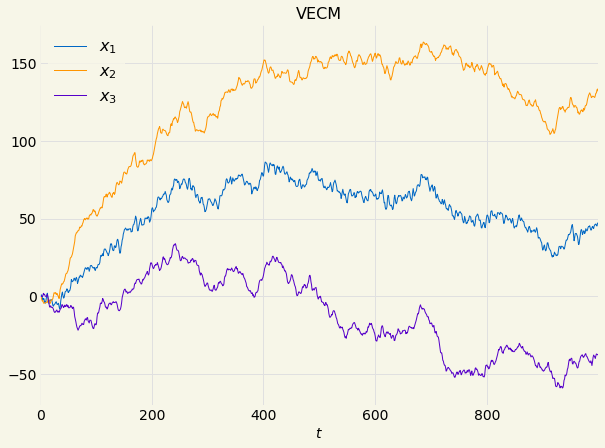
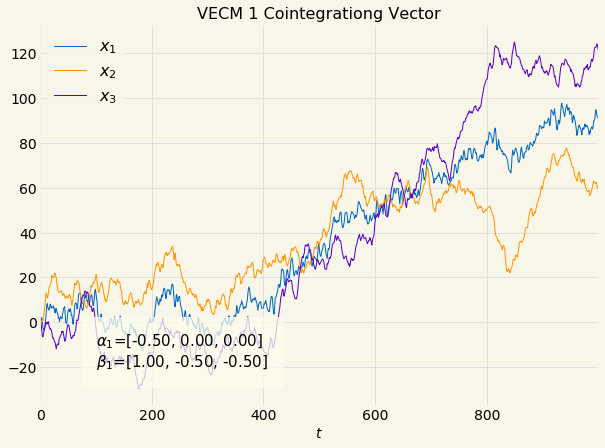
added more vecm simulation examples

diff --git a/hydrogen_notebooks/algorithmic_trading/mean_reversion/vecm_simulation.py b/hydrogen_notebooks/algorithmic_trading/mean_reversion/vecm_simulation.py
@@ -23,12 +23,25 @@ pyplot.style.use(config.glyfish_style)
 def multivariate_normal_sample(μ, Ω, n):
     return numpy.random.multivariate_normal(μ, Ω, n)
 
-def comparison_plot(title, samples, labels, plot):
+def comparison_plot(title, samples, α, β, labels, box_pos, plot):
     nplot, nsamples = samples.shape
     figure, axis = pyplot.subplots(figsize=(10, 7))
     axis.set_title(title)
     axis.set_xlabel(r"$t$")
     axis.set_xlim([0, nsamples-1])
+
+    params = []
+    d = ", "
+    nα, _ = α.shape
+    nβ, _ = β.shape
+    for i in range(nα):
+        params.append(f"$α_{{{i+1}}}$=[{d.join([format(elem, '2.2f') for elem in numpy.array(α[i]).flatten()])}]")
+    for i in range(nβ):
+        params.append(f"$β_{{{i+1}}}$=[{d.join([format(elem, '2.2f') for elem in numpy.array(β[i]).flatten()])}]")
+    params_string = "\n".join(params)
+    bbox = dict(boxstyle='square,pad=1', facecolor="#FEFCEC", edgecolor="#FEFCEC", alpha=0.75)
+    axis.text(box_pos[0], box_pos[1], params_string, fontsize=15, bbox=bbox, transform=axis.transAxes)
+
     for i in range(nplot):
         axis.plot(range(nsamples), samples[i].T, label=labels[i], lw=1)
     axis.legend(fontsize=16)
@@ -56,17 +69,20 @@ a = numpy.matrix([[0.5, 0.0, 0.0],
                   [0.0, 1.0, 0.0],
                   [0.0, 0.0, 1.0]])
 
-title = "VECM"
+title = "VECM 1 Cointegrationg Vector"
 labels = [r"$x_1$", r"$x_2$", r"$x_3$"]
 plot = "vecm_comparison_1"
 samples = vecm_generate_sample(α, β, a, Ω, nsample)
-comparison_plot(title, samples, labels, plot)
+
+# %%
+
+comparison_plot(title, samples, α.T, β, labels, [0.1, 0.1], plot)
 
 # %%
 
 nsample = 1000
 α = numpy.matrix([-0.5, 0.0, 0.0]).T
-β = numpy.matrix([1.0, -0.5, -0.0])
+β = numpy.matrix([1.0, -0.5, 0.0])
 a = numpy.matrix([[0.5, 0.0, 0.0],
                   [0.0, 0.5, 0.0],
                   [0.0, 0.0, 0.5]])
@@ -74,17 +90,92 @@ a = numpy.matrix([[0.5, 0.0, 0.0],
                   [0.0, 1.0, 0.0],
                   [0.0, 0.0, 1.0]])
 
-title = "VECM"
+title = "VECM 1 Cointegrating Vector"
 labels = [r"$x_1$", r"$x_2$", r"$x_3$"]
-plot = "vecm_comparison_1"
+plot = "vecm_comparison_2"
 samples = vecm_generate_sample(α, β, a, Ω, nsample)
-comparison_plot(title, samples, labels, plot)
+
+# %%
+
+comparison_plot(title, samples, α.T, β, labels, [0.6, 0.1], plot)
 
 # %%
 
 nsample = 1000
 α = numpy.matrix([-0.5, 0.0, 0.0]).T
 β = numpy.matrix([1.0, 0.0, -0.5])
+a = numpy.matrix([[0.5, 0.0, 0.0],
+                  [0.0, 0.5, 0.0],
+                  [0.0, 0.0, 0.5]])
+Ω = numpy.matrix([[1.0, 0.0, 0.0],
+                  [0.0, 1.0, 0.0],
+                  [0.0, 0.0, 1.0]])
+
+title = "VECM 1 Cointegrating Vector"
+labels = [r"$x_1$", r"$x_2$", r"$x_3$"]
+plot = "vecm_comparison_3"
+samples = vecm_generate_sample(α, β, a, Ω, nsample)
+
+# %%
+
+comparison_plot(title, samples, α.T, β, labels, [0.6, 0.1], plot)
+
+# %%
+
+nsample = 1000
+α = numpy.matrix([[-0.5, -0.5],
+                  [-0.5, -0.5],
+                  [0.0, 0.0]])
+β = numpy.matrix([[1.0, -0.5, -0.5],
+                  [-0.5, 1.0, -0.5]])
+a = numpy.matrix([[0.5, 0.0, 0.0],
+                  [0.0, 0.5, 0.0],
+                  [0.0, 0.0, 0.5]])
+Ω = numpy.matrix([[1.0, 0.0, 0.0],
+                  [0.0, 1.0, 0.0],
+                  [0.0, 0.0, 1.0]])
+
+title = "VECM 2 Cointegrating Vector"
+labels = [r"$x_1$", r"$x_2$", r"$x_3$"]
+plot = "vecm_comparison_4"
+samples = vecm_generate_sample(α, β, a, Ω, nsample)
+
+# %%
+
+comparison_plot(title, samples, α.T, β, labels, [0.1, 0.15], plot)
+
+# %%
+
+nsample = 1000
+α = numpy.matrix([[-0.5, 0.0],
+                  [0.0, -0.5],
+                  [0.0, 0.0]])
+β = numpy.matrix([[1.0, 0.0, -0.5],
+                  [0.0, 1.0, -0.5]])
+a = numpy.matrix([[0.5, 0.0, 0.0],
+                  [0.0, 0.5, 0.0],
+                  [0.0, 0.0, 0.5]])
+Ω = numpy.matrix([[1.0, 0.0, 0.0],
+                  [0.0, 1.0, 0.0],
+                  [0.0, 0.0, 1.0]])
+
+title = "VECM 2 Cointegrating Vector"
+labels = [r"$x_1$", r"$x_2$", r"$x_3$"]
+plot = "vecm_comparison_5"
+samples = vecm_generate_sample(α, β, a, Ω, nsample)
+
+# %%
+
+comparison_plot(title, samples, α.T, β, labels, [0.6, 0.15], plot)
+
+# %%
+
+nsample = 1000
+α = numpy.matrix([[-0.5, 0.0],
+                  [0.0, -0.5],
+                  [0.0, 0.0]])
+β = numpy.matrix([[1.0, 0.0, -0.5],
+                  [0.0, 1.0, -0.5]])
 a = numpy.matrix([[0.5, 0.5, 0.0],
                   [0.0, 0.5, 0.0],
                   [0.0, 0.0, 0.5]])
@@ -92,8 +183,59 @@ a = numpy.matrix([[0.5, 0.5, 0.0],
                   [0.0, 1.0, 0.0],
                   [0.0, 0.0, 1.0]])
 
-title = "VECM"
+title = "VECM 2 Cointegrating Vector"
 labels = [r"$x_1$", r"$x_2$", r"$x_3$"]
-plot = "vecm_comparison_1"
+plot = "vecm_comparison_6"
 samples = vecm_generate_sample(α, β, a, Ω, nsample)
-comparison_plot(title, samples, labels, plot)
+
+# %%
+
+comparison_plot(title, samples, α.T, β, labels, [0.1, 0.15], plot)
+
+# %%
+
+nsample = 1000
+α = numpy.matrix([[-0.5, -0.5],
+                  [0.0, -0.5],
+                  [0.0, 0.0]])
+β = numpy.matrix([[1.0, 0.0, -0.5],
+                  [0.0, 1.0, -0.5]])
+a = numpy.matrix([[0.5, 0.0, 0.0],
+                  [0.0, 0.5, 0.0],
+                  [0.0, 0.0, 0.5]])
+Ω = numpy.matrix([[1.0, 0.0, 0.0],
+                  [0.0, 1.0, 0.0],
+                  [0.0, 0.0, 1.0]])
+
+title = "VECM 2 Cointegrating Vector"
+labels = [r"$x_1$", r"$x_2$", r"$x_3$"]
+plot = "vecm_comparison_7"
+samples = vecm_generate_sample(α, β, a, Ω, nsample)
+
+# %%
+
+comparison_plot(title, samples, α.T, β, labels, [0.1, 0.15], plot)
+
+# %%
+
+nsample = 1000
+α = numpy.matrix([[-0.5, -0.0],
+                  [0.0, -0.5],
+                  [0.0, 0.0]])
+β = numpy.matrix([[1.0, 0.0, -0.5],
+                  [-1.0, 1.0, -0.5]])
+a = numpy.matrix([[0.5, 0.0, 0.0],
+                  [0.0, 0.5, 0.0],
+                  [0.0, 0.0, 0.5]])
+Ω = numpy.matrix([[1.0, 0.0, 0.0],
+                  [0.0, 1.0, 0.0],
+                  [0.0, 0.0, 1.0]])
+
+title = "VECM 2 Cointegrating Vector"
+labels = [r"$x_1$", r"$x_2$", r"$x_3$"]
+plot = "vecm_comparison_8"
+samples = vecm_generate_sample(α, β, a, Ω, nsample)
+
+# %%
+
+comparison_plot(title, samples, α.T, β, labels, [0.1, 0.15], plot)
